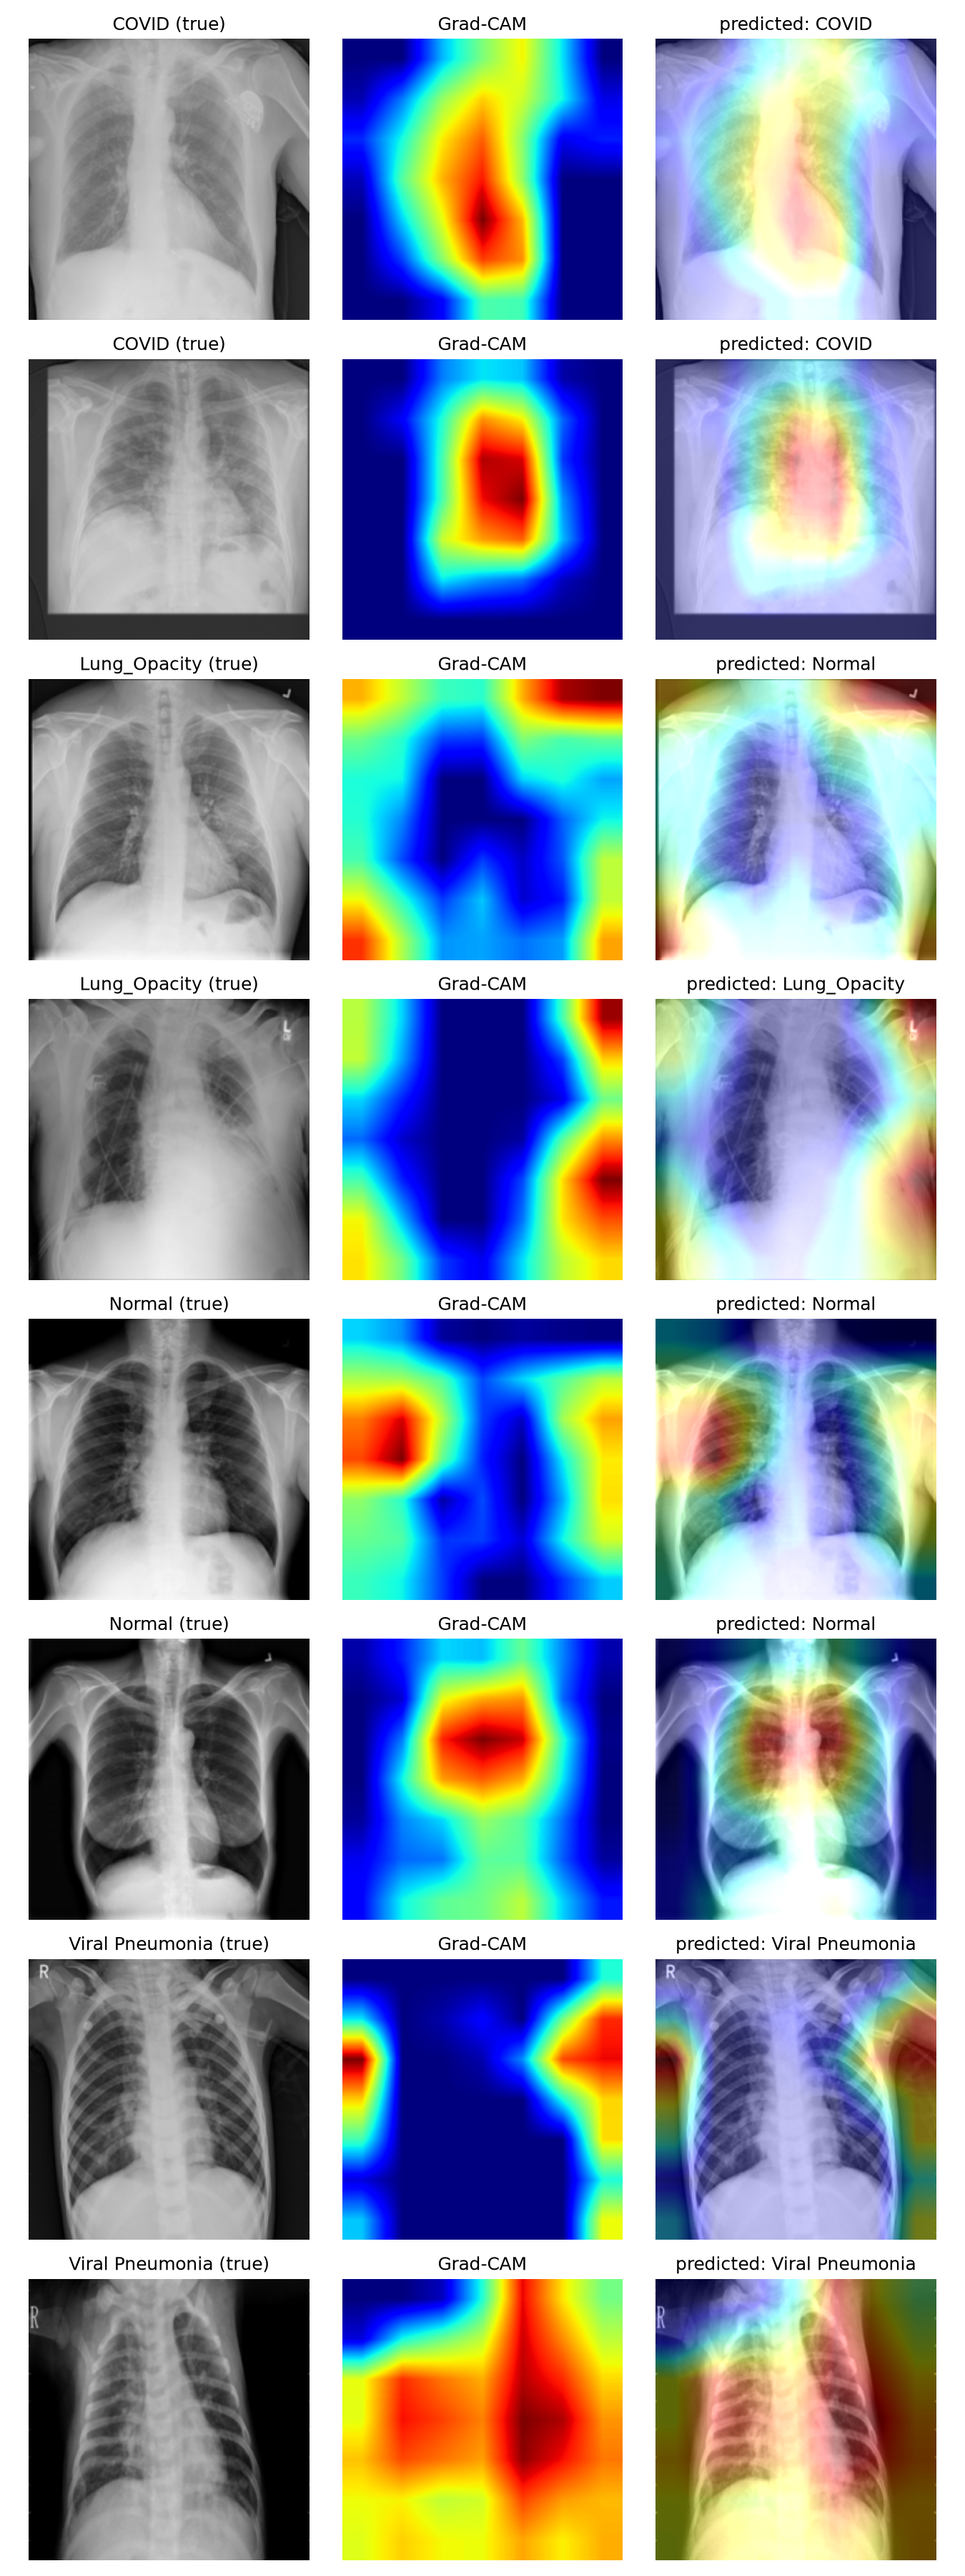
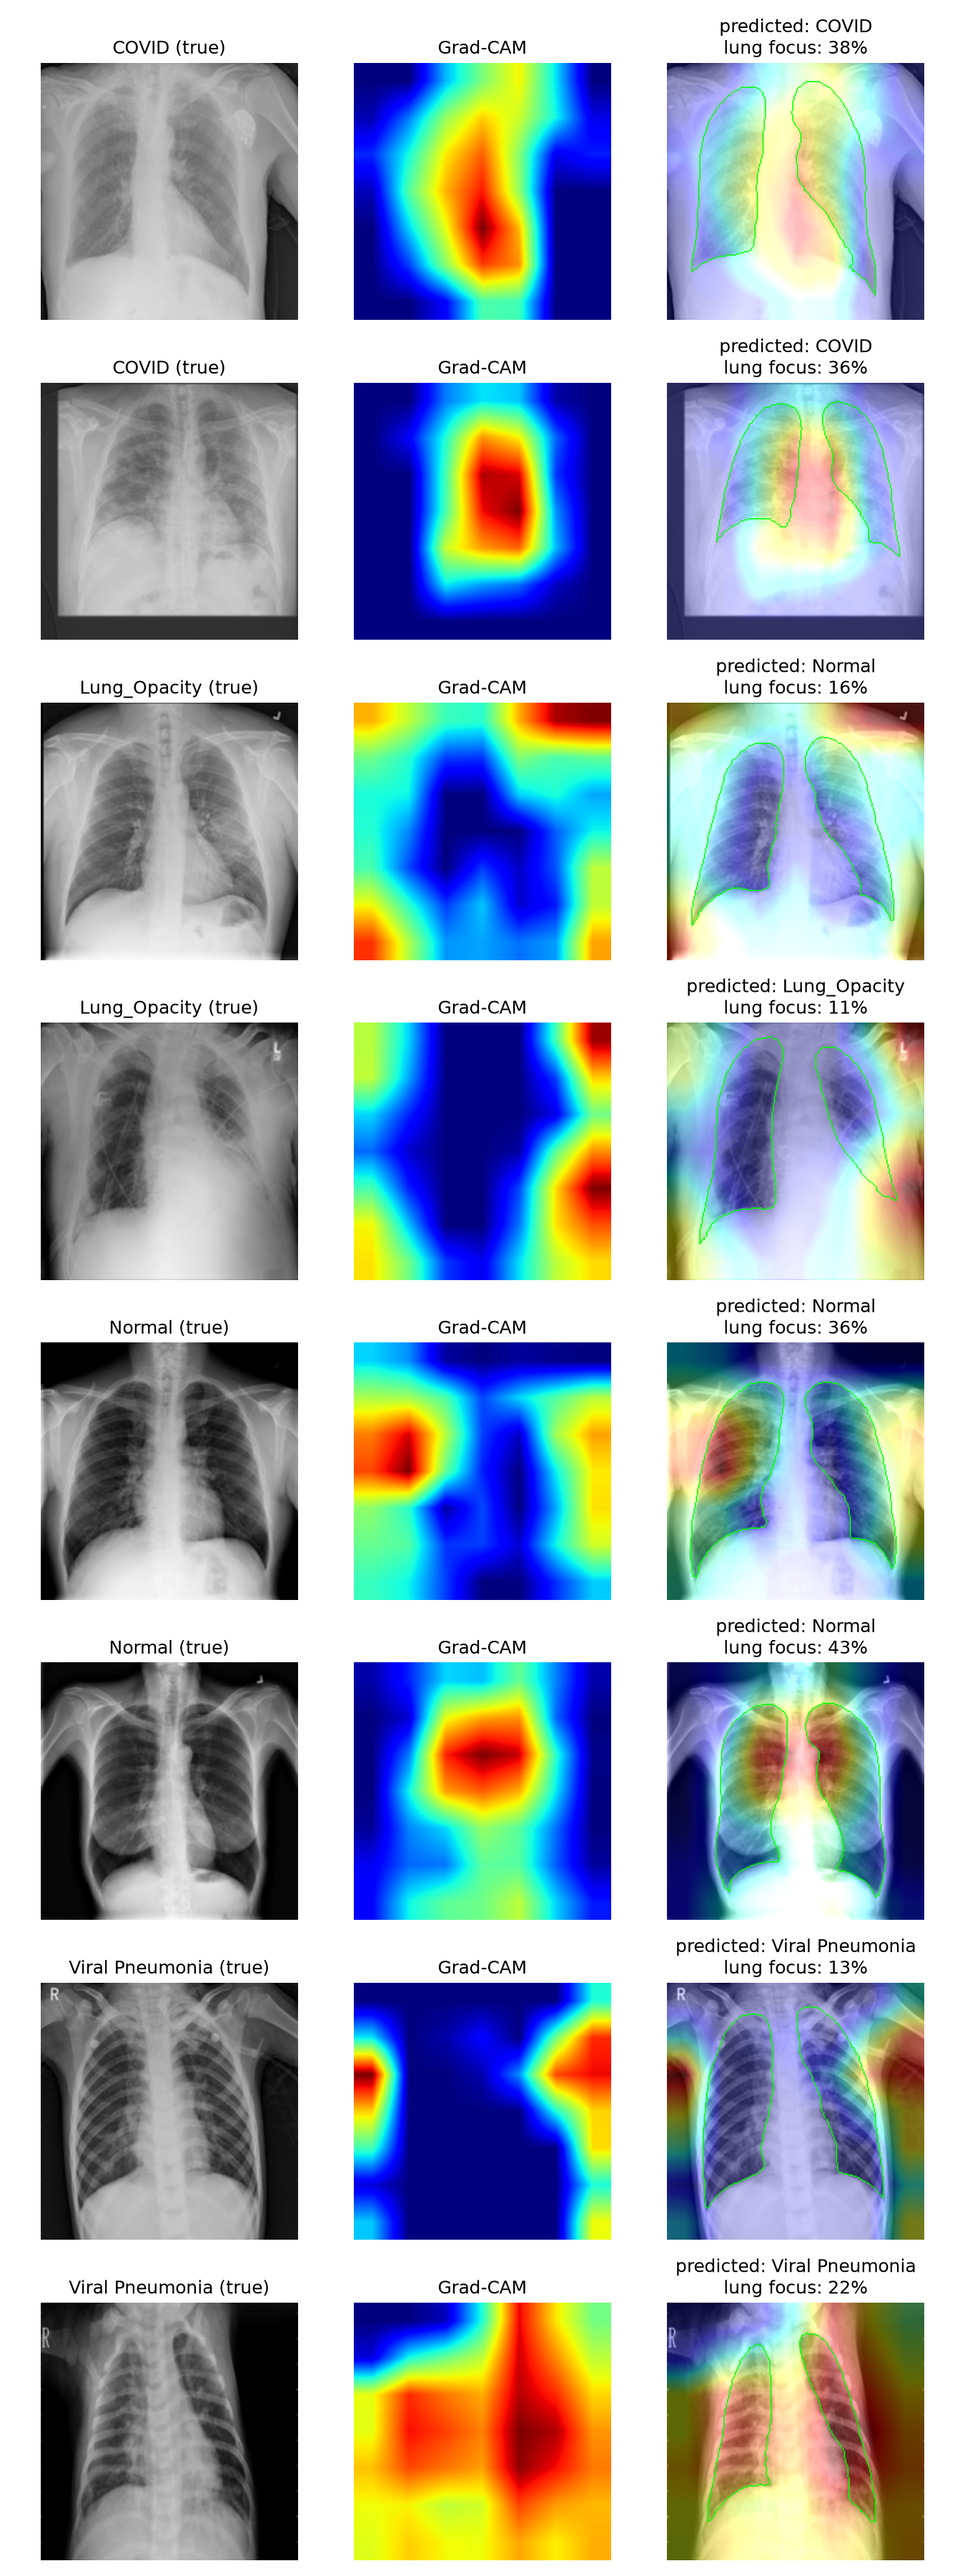
Add Grad-CAM functionality for correctness analysis in transfer learning
This commit introduces several enhancements to the Grad-CAM functionality:
- Added new methods to aggregate lung focus by correctness, allowing comparison between correct and misclassified predictions.
- Implemented saving of correctness lung focus reports, including CSV and PNG outputs.
- Updated the Grad-CAM CLI to support the new correctness analysis features.
- Added tests to validate the correctness aggregation and report generation.

Additionally, new images and CSV files related to transfer learning results have been added to the reports directory.

diff --git a/src/covid_xray/transfer_learning/gradcam.py b/src/covid_xray/transfer_learning/gradcam.py
@@ -292,12 +292,55 @@ def aggregate_lung_focus(summary: pd.DataFrame) -> pd.DataFrame:
     return per_class.reindex([name for name in CLASS_NAMES if name in per_class.index])
 
 
-def save_lung_focus_report(
-    summary: pd.DataFrame, output_dir: Path | str, model_name: str
-) -> Tuple[Path, Path]:
+def aggregate_lung_focus_by_correctness(summary: pd.DataFrame) -> pd.DataFrame:
+    """Compare Grad-CAM lung focus between correct and misclassified predictions.
+
+    If the model attends to the lungs noticeably less on the images it gets
+    wrong, that is evidence its errors coincide with it leaning on background
+    or border cues rather than the pathology itself.
+    """
+    frame = summary.copy()
+    frame["prediction"] = np.where(
+        frame["true_label"] == frame["predicted_label"], "correct", "misclassified"
+    )
+    per_group = frame.groupby("prediction").agg(
+        mean_lung_fraction=("lung_fraction", "mean"),
+        std_lung_fraction=("lung_fraction", "std"),
+        mean_mask_coverage=("mask_coverage", "mean"),
+        n_images=("lung_fraction", "count"),
+    )
+    per_group["lung_focus_vs_chance"] = (
+        per_group["mean_lung_fraction"] - per_group["mean_mask_coverage"]
+    )
+    return per_group.reindex(["correct", "misclassified"]).dropna(how="all")
+
+
+def _plot_lung_focus_bars(per_group: pd.DataFrame, title: str, output_path: Path) -> Path:
     from matplotlib.backends.backend_agg import FigureCanvasAgg
     from matplotlib.figure import Figure
 
+    figure = Figure(figsize=(8, 4.5))
+    FigureCanvasAgg(figure)
+    axis = figure.add_subplot(111)
+
+    positions = np.arange(len(per_group))
+    axis.bar(positions - 0.2, per_group["mean_lung_fraction"], width=0.4, label="Grad-CAM in lungs")
+    axis.bar(positions + 0.2, per_group["mean_mask_coverage"], width=0.4, label="lung area (chance)")
+    axis.set_xticks(positions)
+    axis.set_xticklabels(per_group.index, rotation=45, ha="right")
+    axis.set_ylabel("Fraction")
+    axis.set_ylim(0, 1)
+    axis.set_title(title, fontsize=10)
+    axis.legend()
+
+    figure.tight_layout()
+    figure.savefig(output_path, dpi=150)
+    return output_path
+
+
+def save_lung_focus_report(
+    summary: pd.DataFrame, output_dir: Path | str, model_name: str
+) -> Tuple[Path, Path]:
     output_dir = Path(output_dir)
     output_dir.mkdir(parents=True, exist_ok=True)
     per_class = aggregate_lung_focus(summary)
@@ -305,22 +348,27 @@ def save_lung_focus_report(
     csv_path = output_dir / f"{model_name}_lung_focus.csv"
     per_class.to_csv(csv_path)
 
-    figure = Figure(figsize=(7, 4))
-    FigureCanvasAgg(figure)
-    axis = figure.add_subplot(111)
-
-    positions = np.arange(len(per_class))
-    axis.bar(positions - 0.2, per_class["mean_lung_fraction"], width=0.4, label="Grad-CAM in lungs")
-    axis.bar(positions + 0.2, per_class["mean_mask_coverage"], width=0.4, label="lung area (chance)")
-    axis.set_xticks(positions)
-    axis.set_xticklabels(per_class.index, rotation=45, ha="right")
-    axis.set_ylabel("Fraction")
-    axis.set_ylim(0, 1)
-    axis.set_title(f"{model_name}: Grad-CAM attention inside lungs vs. chance")
-    axis.legend()
-
-    figure.tight_layout()
     png_path = output_dir / f"{model_name}_lung_focus.png"
-    figure.savefig(png_path, dpi=150)
+    _plot_lung_focus_bars(
+        per_class, f"{model_name}\nGrad-CAM attention inside lungs vs. chance", png_path
+    )
+
+    return csv_path, png_path
+
+
+def save_correctness_lung_focus_report(
+    summary: pd.DataFrame, output_dir: Path | str, model_name: str
+) -> Tuple[Path, Path]:
+    output_dir = Path(output_dir)
+    output_dir.mkdir(parents=True, exist_ok=True)
+    per_group = aggregate_lung_focus_by_correctness(summary)
+
+    csv_path = output_dir / f"{model_name}_lung_focus_by_correctness.csv"
+    per_group.to_csv(csv_path)
+
+    png_path = output_dir / f"{model_name}_lung_focus_by_correctness.png"
+    _plot_lung_focus_bars(
+        per_group, f"{model_name}\nGrad-CAM lung focus: correct vs misclassified", png_path
+    )
 
     return csv_path, png_path

diff --git a/tests/transfer_learning/test_transfer_gradcam.py b/tests/transfer_learning/test_transfer_gradcam.py
@@ -9,6 +9,7 @@ import pytest
 from covid_xray.transfer_learning import TransferConfig, build_transfer_model
 from covid_xray.transfer_learning.gradcam import (
     aggregate_lung_focus,
+    aggregate_lung_focus_by_correctness,
     build_gradcam_models,
     compute_gradcam_heatmap,
     draw_mask_contour,
@@ -18,6 +19,7 @@ from covid_xray.transfer_learning.gradcam import (
     lung_attention_fraction,
     overlay_heatmap,
     resize_heatmap,
+    save_correctness_lung_focus_report,
     save_gradcam_grid,
     save_lung_focus_report,
     summarize_lung_focus,
@@ -189,6 +191,52 @@ def test_save_lung_focus_report_writes_csv_and_png(
     summary = summarize_lung_focus(model, manifest_with_masks, image_size=(64, 64))
 
     csv_path, png_path = save_lung_focus_report(summary, tmp_path, "test_model")
+
+    assert csv_path.exists()
+    assert png_path.exists()
+
+
+def test_aggregate_lung_focus_by_correctness_splits_correct_and_misclassified() -> None:
+    summary = pd.DataFrame(
+        {
+            "true_label": ["COVID", "COVID", "Normal", "Normal"],
+            "predicted_label": ["COVID", "Normal", "Normal", "COVID"],
+            "lung_fraction": [0.5, 0.2, 0.6, 0.1],
+            "mask_coverage": [0.25, 0.25, 0.25, 0.25],
+        }
+    )
+
+    per_group = aggregate_lung_focus_by_correctness(summary)
+
+    assert list(per_group.index) == ["correct", "misclassified"]
+    assert per_group.loc["correct", "mean_lung_fraction"] == pytest.approx(0.55)
+    assert per_group.loc["misclassified", "mean_lung_fraction"] == pytest.approx(0.15)
+    assert per_group.loc["correct", "n_images"] == 2
+    assert per_group.loc["misclassified", "n_images"] == 2
+
+
+def test_aggregate_lung_focus_by_correctness_handles_all_correct() -> None:
+    summary = pd.DataFrame(
+        {
+            "true_label": ["COVID", "Normal"],
+            "predicted_label": ["COVID", "Normal"],
+            "lung_fraction": [0.5, 0.6],
+            "mask_coverage": [0.25, 0.25],
+        }
+    )
+
+    per_group = aggregate_lung_focus_by_correctness(summary)
+
+    assert list(per_group.index) == ["correct"]
+
+
+def test_save_correctness_lung_focus_report_writes_csv_and_png(
+    manifest_with_masks: pd.DataFrame, tmp_path: Path
+) -> None:
+    model = build_transfer_model(SMALL)
+    summary = summarize_lung_focus(model, manifest_with_masks, image_size=(64, 64))
+
+    csv_path, png_path = save_correctness_lung_focus_report(summary, tmp_path, "test_model")
 
     assert csv_path.exists()
     assert png_path.exists()

diff --git a/src/covid_xray/transfer_learning/gradcam_cli.py b/src/covid_xray/transfer_learning/gradcam_cli.py
@@ -11,6 +11,8 @@ from .config import TransferConfig
 from .gradcam import (
     DEFAULT_BACKBONE_LAYER,
     aggregate_lung_focus,
+    aggregate_lung_focus_by_correctness,
+    save_correctness_lung_focus_report,
     save_gradcam_grid,
     save_lung_focus_report,
     summarize_lung_focus,
@@ -77,6 +79,12 @@ def main(argv: Sequence[str] | None = None) -> int:
         )
         print(f"Saved lung-focus report to {csv_path} and {png_path}")
         print(aggregate_lung_focus(summary).round(3).to_string())
+
+        correctness_csv_path, correctness_png_path = save_correctness_lung_focus_report(
+            summary, args.output.parent, args.model_path.stem
+        )
+        print(f"Saved correctness lung-focus report to {correctness_csv_path} and {correctness_png_path}")
+        print(aggregate_lung_focus_by_correctness(summary).round(3).to_string())
 
     return 0
 

diff --git a/src/covid_xray/transfer_learning/__init__.py b/src/covid_xray/transfer_learning/__init__.py
@@ -4,11 +4,13 @@ from .config import TransferConfig
 from .dataset import build_datasets
 from .gradcam import (
     aggregate_lung_focus,
+    aggregate_lung_focus_by_correctness,
     build_gradcam_models,
     compute_gradcam_heatmap,
     gradcam_for_image,
     lung_attention_fraction,
     overlay_heatmap,
+    save_correctness_lung_focus_report,
     save_gradcam_grid,
     save_lung_focus_report,
     summarize_lung_focus,
@@ -28,7 +30,9 @@ __all__ = [
     "lung_attention_fraction",
     "summarize_lung_focus",
     "aggregate_lung_focus",
+    "aggregate_lung_focus_by_correctness",
     "save_lung_focus_report",
+    "save_correctness_lung_focus_report",
     "TransferResult",
     "format_transfer_report",
     "run_transfer_learning",
